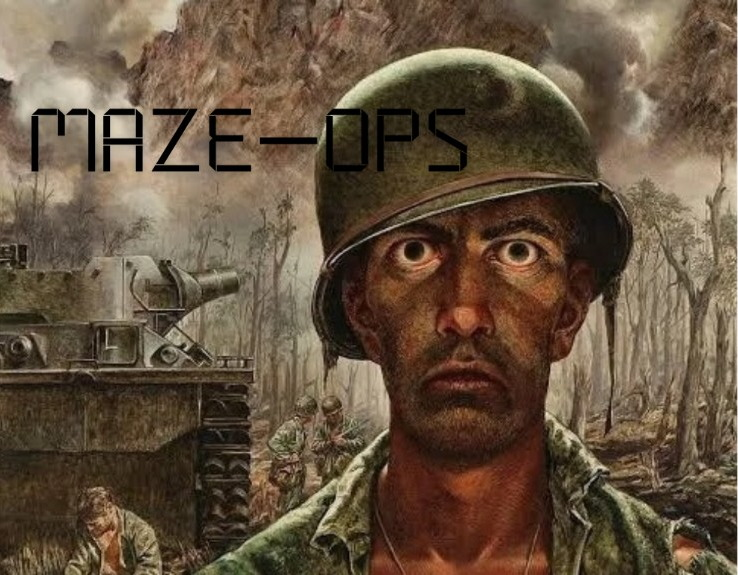
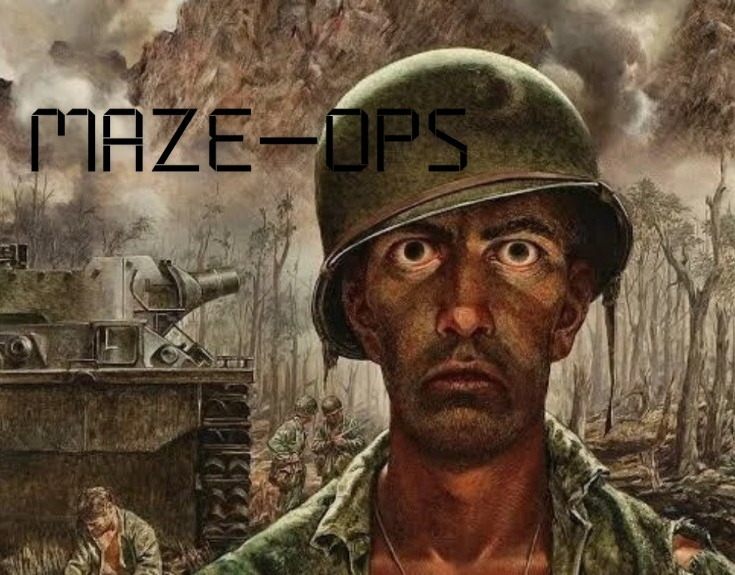
Hero UI fix

diff --git a/src/data/games.ts b/src/data/games.ts
@@ -90,7 +90,7 @@ export const devGames: Game[] = [
     playUrl:
       'https://pub-e379ba287a9f4d8ba4cdbd6b6095cb6c.r2.dev/Maze-Ops/index.html',
     coverImage: '/games/maze-ops.jpg',
-    coverAspectRatio: 738 / 575,
+    coverAspectRatio: 735 / 575,
   },
 ]
 

diff --git a/AGENTS.md b/AGENTS.md
@@ -3,7 +3,7 @@
 > Living document for AI agent continuity. Updated automatically on file edits and substantively by agents after meaningful changes.
 
 <!-- AUTO:LAST_UPDATED -->
-**Last updated:** 2026-08-29 03:01 (auto)
+**Last updated:** 2026-08-29 03:13 (auto)
 <!-- /AUTO:LAST_UPDATED -->
 
 ---
@@ -199,7 +199,7 @@ src/
 - **Tutorial Game 1** (`tut-1`) — q5play platformer; Web, `status: playable`, Cloudflare R2: `https://pub-e379ba287a9f4d8ba4cdbd6b6095cb6c.r2.dev/tut-1/index.html`
 - **Tutorial Game 2** (`tut-2`) — q5play maze (“Escape the MAZE”); Web, `status: playable`, Cloudflare R2: `https://pub-e379ba287a9f4d8ba4cdbd6b6095cb6c.r2.dev/tut-2/index.html`
 - **Maze-Ops** (`maze-ops`) — Dev Games only (not Home); Web, `status: playable`, Cloudflare R2: `https://pub-e379ba287a9f4d8ba4cdbd6b6095cb6c.r2.dev/Maze-Ops/index.html`
-- Cover art: `public/games/maze-ops.jpg` — 738×575 military title card; white side bars cropped so art bleeds edge to edge (native ratio `738 / 575`)
+- Cover art: `public/games/maze-ops.jpg` — 735×575 military title card; white side bars cropped (including a 1px cream fringe on the right) so art bleeds edge to edge (native ratio `735 / 575`)
 - Cover art: `public/games/tut-1.png` — 874×575 geometric title card (red player, grey steps, gold finish) matching Fruit Rally’s ratio
 - Cover art: `public/games/tut-2.png` — 874×575 maze title card (blue player, red wall tiles) matching Fruit Rally’s ratio
 - Cover art: `public/games/fruit-rally.jpg` — comic hero cropped to 874×575 (`874 / 575` ≈ Snake Run's 1.52) so the card matches Snake Run's shape; source screenshot's white side bars are cropped off, art bleeds edge to edge. Full parity with Snake Run (grid cover, GameDetail media slot, blurred wash, light + dark chrome)
@@ -331,6 +331,7 @@ When making changes to this project:
 ## Recent edits (auto)
 
 <!-- AUTO:RECENT_EDITS -->
+- `2026-08-29 03:13` — `src/data/games.ts`
 - `2026-08-29 03:01` — `vite.config.ts`
 - `2026-08-29 03:01` — `src/lib/pwa.ts`
 - `2026-08-29 02:54` — `src/components/library/FriendsView.tsx`
@@ -360,7 +361,6 @@ When making changes to this project:
 - `2026-08-29 00:31` — `src/data/games.ts`
 - `2026-08-29 00:30` — `../../../../../../Users/elmopr77/.cursor/projects/Volumes-REDDRIVE-App-Portfolio-Development-Builds-Personal-website-portfolio-KryoGames/assets/Kryogames_3_-1a4c43ec-6aac-41b7-aa82-e33a81a577ed.jpg`
 - `2026-08-29 00:12` — `src/components/library/LibraryGameGrid.tsx`
-- `2026-08-29 00:12` — `src/components/library/LibraryView.tsx`
 <!-- /AUTO:RECENT_EDITS -->
 -->
 -->
